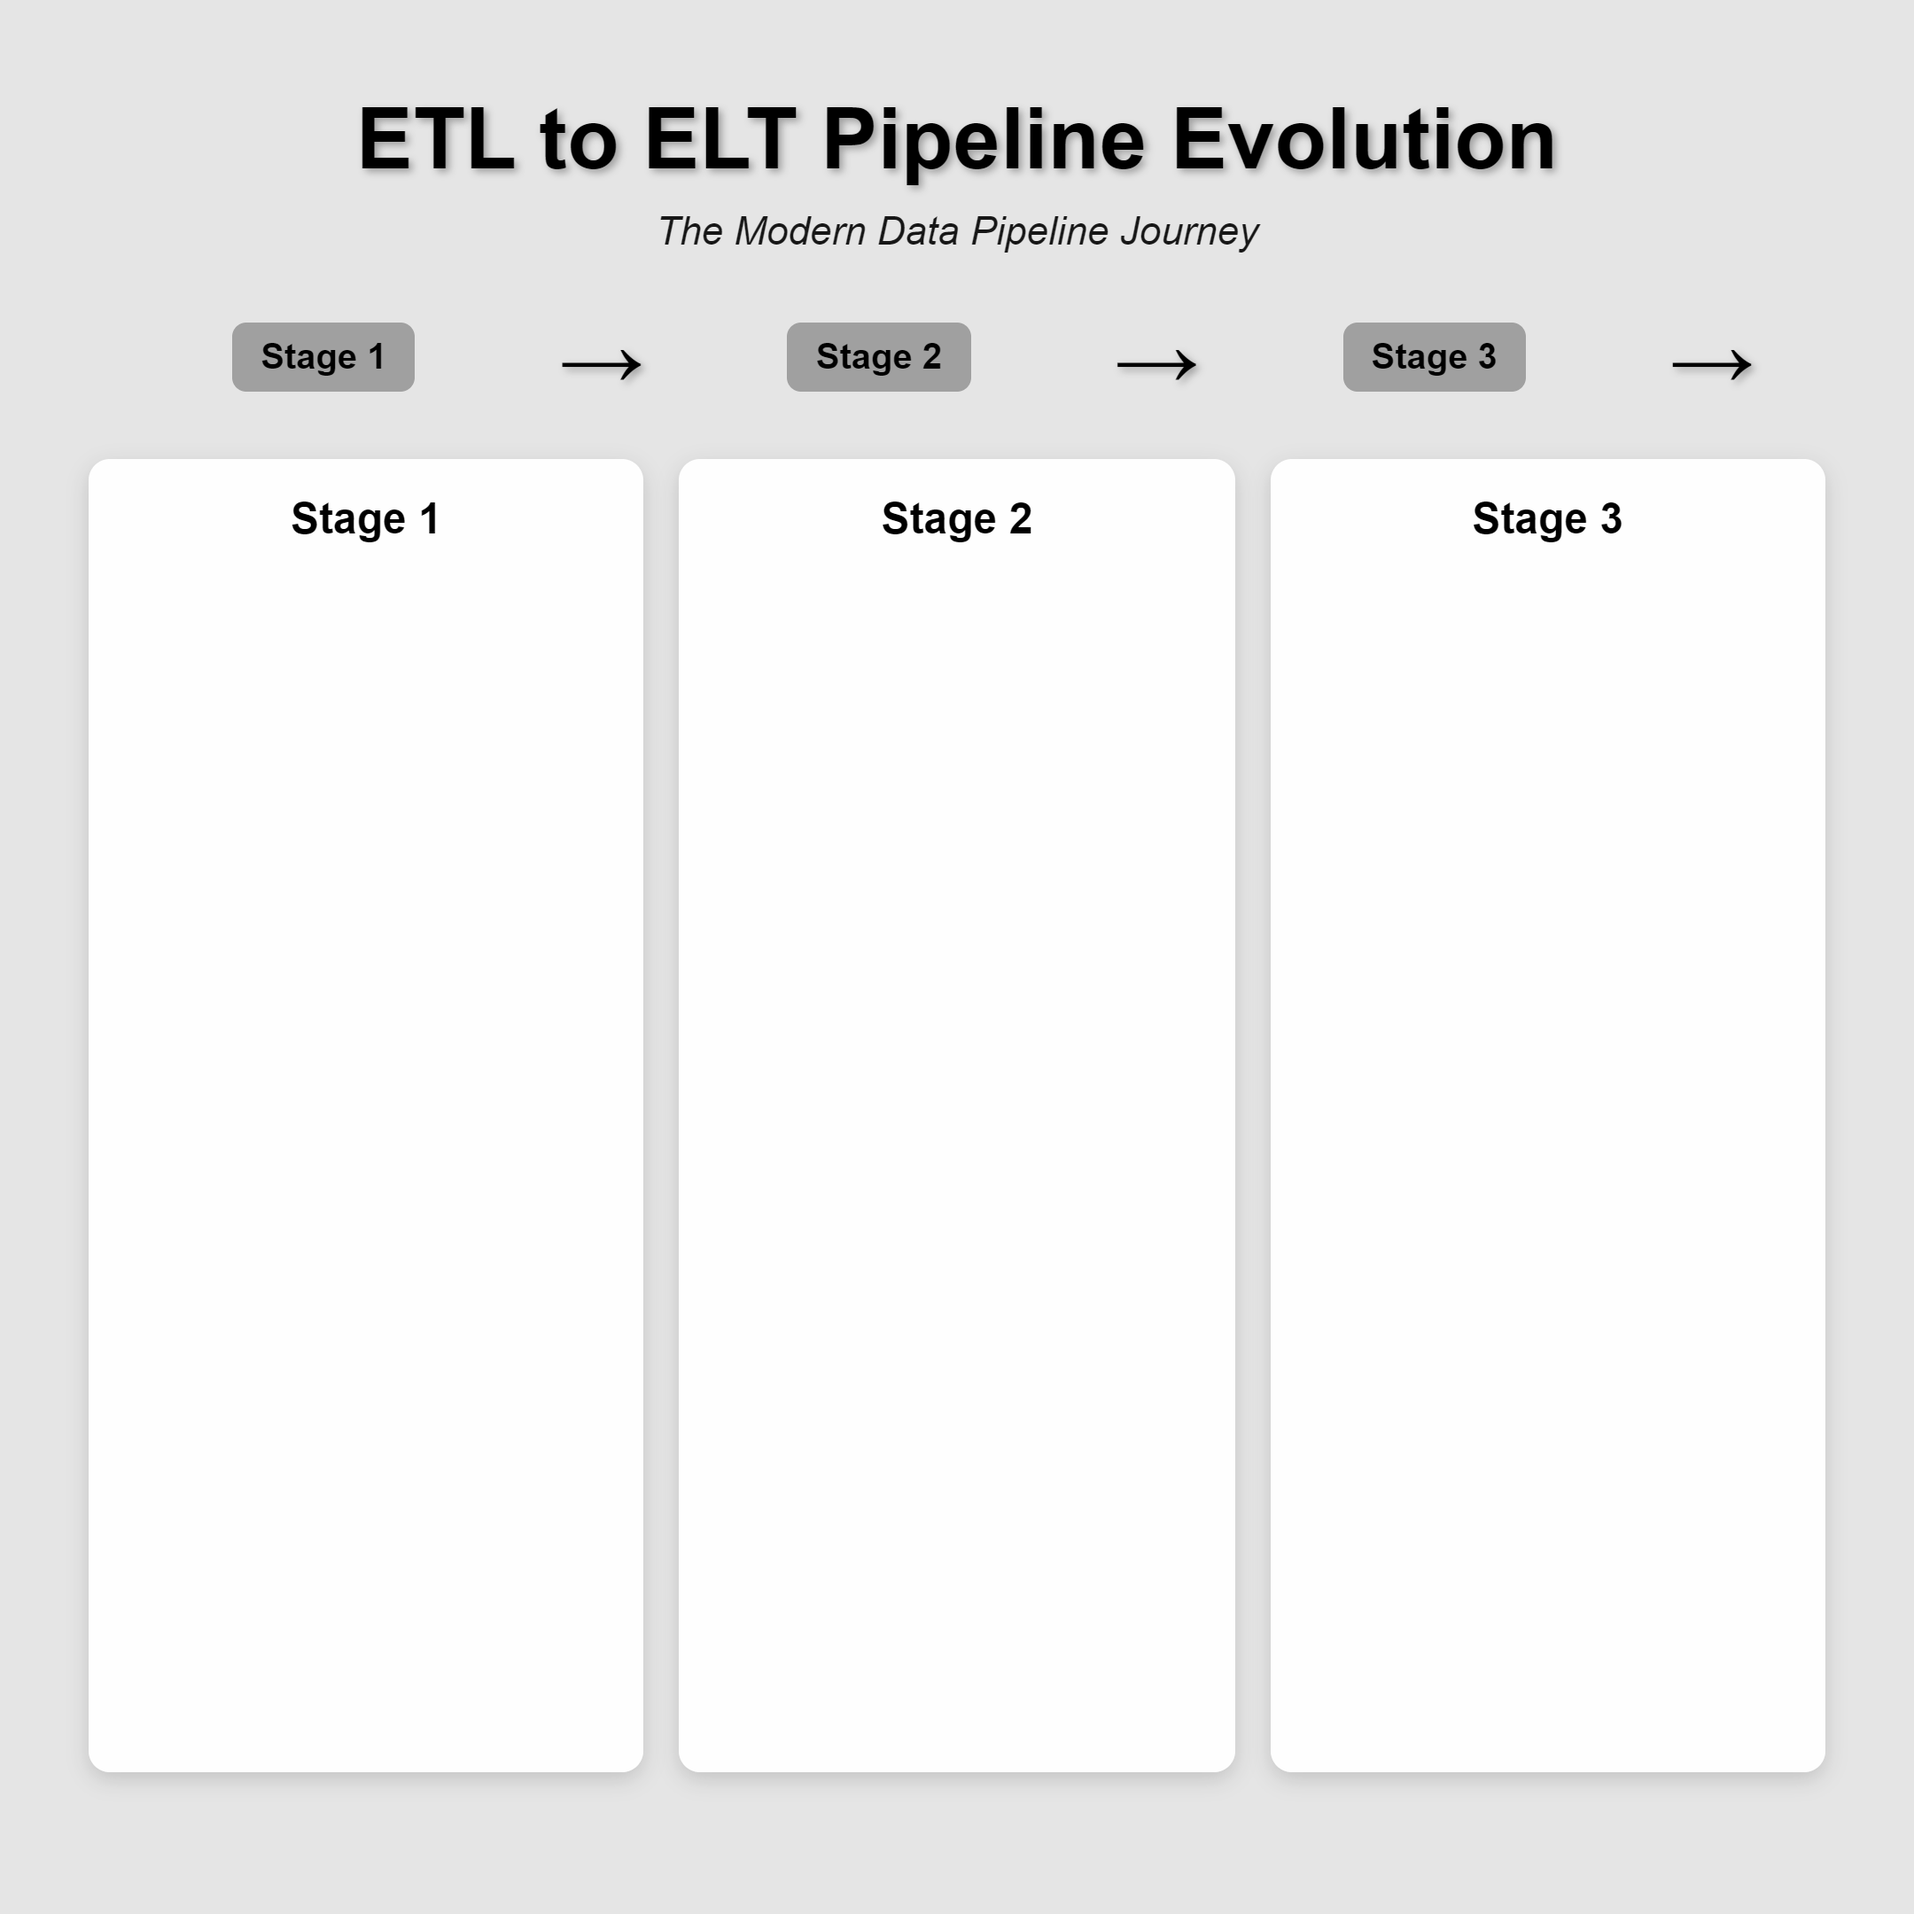
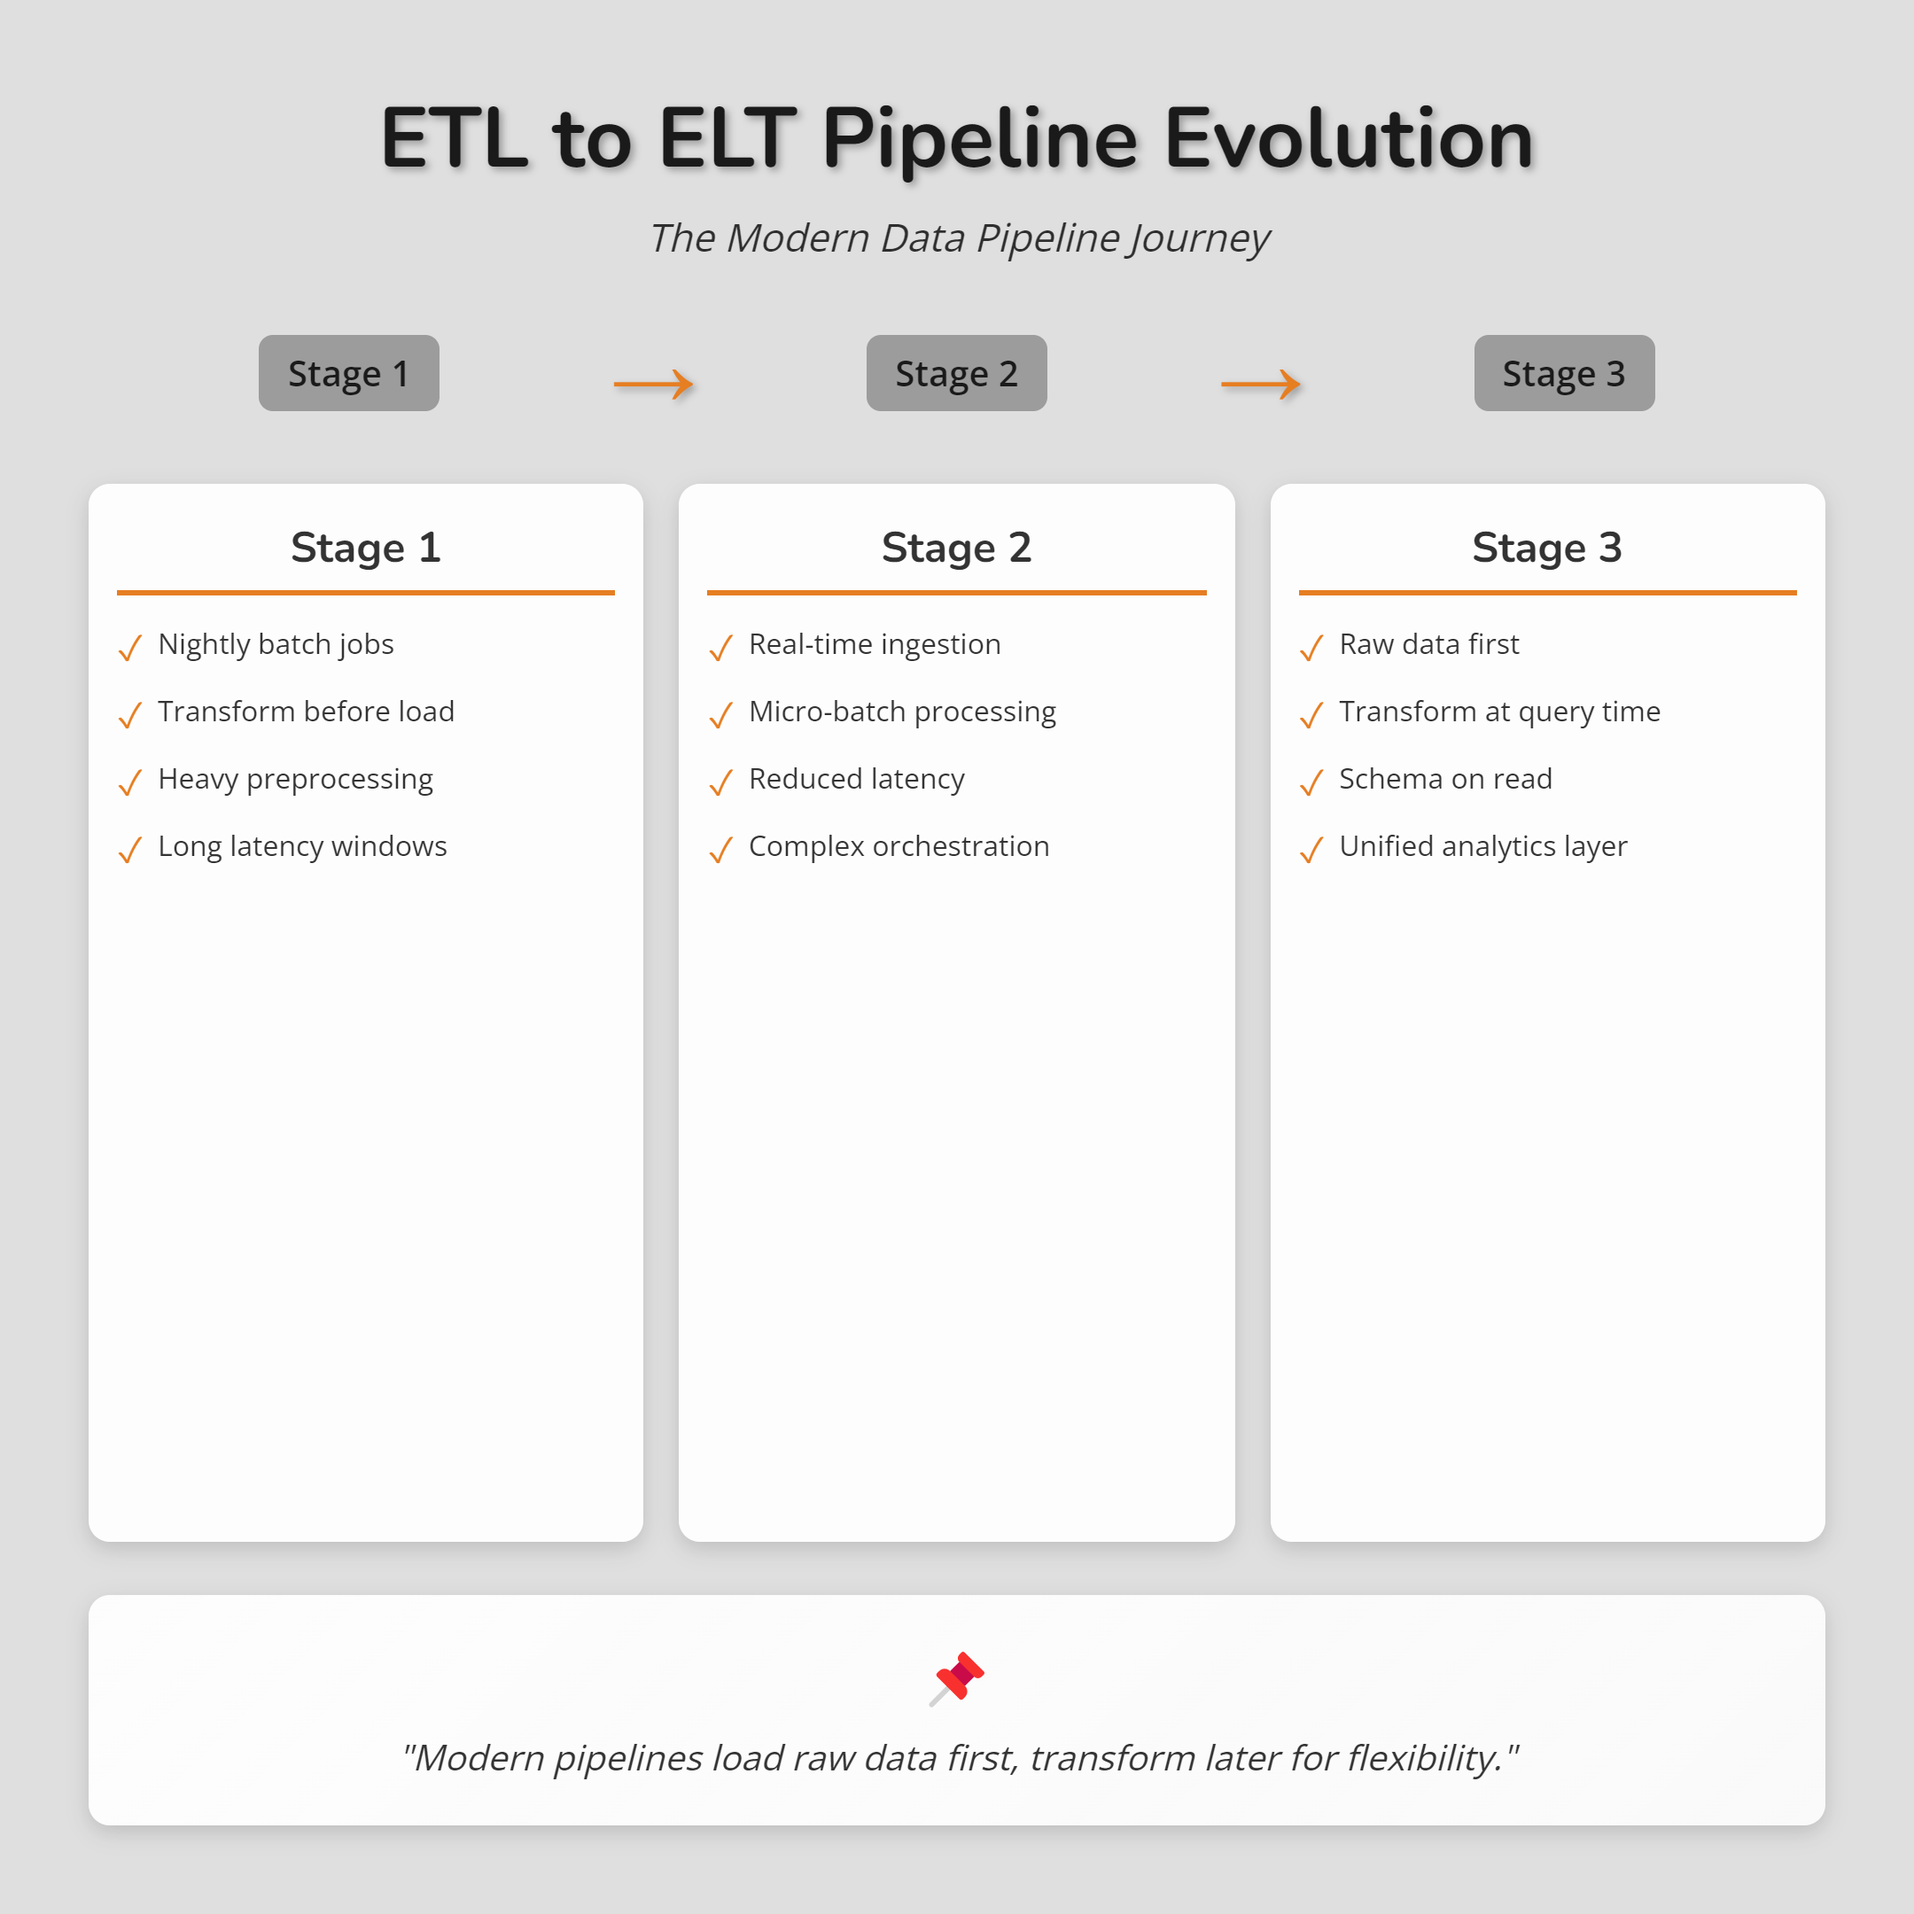
fix(08-01): fix text rendering in evolution and dense-infographic layouts
Rule 1 - Bug Fix: Discovered pre-existing bugs preventing text from displaying correctly

Issue 1: CSS variable name mismatch between templates and themes
- Templates use: --body-color, --title-color, --accent-color, --bg-color, --title-font, --body-font
- Themes define: --text-primary, --text-secondary, --text-accent, --bg-primary, --font-title, --font-body
- Fix: Added legacy variable aliases to all 6 themes for backward compatibility

Issue 2: Evolution layout items not rendering
- Template expects items as objects with {text, icon, iconType} properties
- Data provides simple string arrays
- Fix: Transform string items to objects in compositor.js evolution layout preparation

Issue 3: Dense-infographic body text using wrong color variable
- Section items used --text-primary (title color) instead of --body-color
- White title text on light backgrounds = invisible text
- Fix: Changed dense-infographic.html section-item to use --body-color

Verification: All 6 pillar samples now render with readable text at 1080x1080

diff --git a/automation/hybrid-image-generator/compositor.js b/automation/hybrid-image-generator/compositor.js
@@ -133,11 +133,24 @@ async function prepareTemplateData(config) {
     templateData.showIllustrations = !!(templateData.illustration1Url || templateData.illustration2Url);
   } else if (layout === 'evolution') {
     // Evolution layout: multiple stages with progression
-    templateData.stages = sections.map((section, index) => ({
-      ...section,
-      illustrationUrl: illustrationUrls[`stage${index + 1}`] || illustrationUrls[section.slot]
-    }));
+    templateData.stages = sections.map((section, index) => {
+      // Transform string items to objects with text and icon properties
+      const transformedItems = (section.items || []).map(item => {
+        if (typeof item === 'string') {
+          return { text: item, icon: '✓', iconType: 'check' };
+        }
+        return item;
+      });
+
+      return {
+        ...section,
+        items: transformedItems,
+        illustrationUrl: illustrationUrls[`stage${index + 1}`] || illustrationUrls[section.slot],
+        isLast: index === sections.length - 1
+      };
+    });
     templateData.showArrows = sections.length > 1;
+    templateData.summary = insight;
   } else if (layout === 'single') {
     // Single layout: deep dive on one topic
     templateData.sections = sections;

diff --git a/automation/hybrid-image-generator/themes/whiteboard.js b/automation/hybrid-image-generator/themes/whiteboard.js
@@ -131,7 +131,15 @@ const whiteboardTheme = {
     '--pros-bg': 'rgba(41, 128, 185, 0.05)', // Very subtle blue tint
     '--cons-bg': 'rgba(230, 126, 34, 0.05)', // Very subtle orange tint
     '--pros-border': '#2980b9', // Blue marker
-    '--cons-border': '#e67e22' // Orange marker
+    '--cons-border': '#e67e22', // Orange marker
+
+    // Legacy template variable aliases (for backward compatibility)
+    '--title-color': '#1a1a1a', // Alias for --text-primary
+    '--body-color': '#333333', // Alias for --text-secondary
+    '--accent-color': '#e67e22', // Alias for --text-accent
+    '--bg-color': '#f8f8f8', // Alias for --bg-primary
+    '--title-font': 'Nunito, sans-serif', // Alias for --font-title
+    '--body-font': 'Open Sans, sans-serif' // Alias for --font-body
   },
 
   /**

diff --git a/automation/hybrid-image-generator/themes/chalkboard.js b/automation/hybrid-image-generator/themes/chalkboard.js
@@ -130,7 +130,15 @@ const chalkboardTheme = {
     '--pros-bg': 'rgba(76, 175, 80, 0.1)', // Subtle green tint
     '--cons-bg': 'rgba(244, 67, 54, 0.1)', // Subtle red tint
     '--pros-border': '#4caf50',
-    '--cons-border': '#f44336'
+    '--cons-border': '#f44336',
+
+    // Legacy template variable aliases (for backward compatibility)
+    '--title-color': '#ffffff', // Alias for --text-primary
+    '--body-color': '#e8e8e8', // Alias for --text-secondary
+    '--accent-color': '#f4d03f', // Alias for --text-accent
+    '--bg-color': '#2d4a3e', // Alias for --bg-primary
+    '--title-font': 'Permanent Marker, cursive', // Alias for --font-title
+    '--body-font': 'Patrick Hand, cursive' // Alias for --font-body
   },
 
   /**

diff --git a/automation/hybrid-image-generator/themes/notebook.js b/automation/hybrid-image-generator/themes/notebook.js
@@ -131,7 +131,15 @@ const notebookTheme = {
     '--pros-bg': 'rgba(76, 175, 80, 0.08)', // Very subtle green tint
     '--cons-bg': 'rgba(244, 67, 54, 0.08)', // Very subtle red tint
     '--pros-border': '#4caf50',
-    '--cons-border': '#f44336'
+    '--cons-border': '#f44336',
+
+    // Legacy template variable aliases (for backward compatibility)
+    '--title-color': '#2d2d2d', // Alias for --text-primary
+    '--body-color': '#4a4a4a', // Alias for --text-secondary
+    '--accent-color': '#3a7bd5', // Alias for --text-accent
+    '--bg-color': '#f5f0e8', // Alias for --bg-primary
+    '--title-font': 'Caveat, cursive', // Alias for --font-title
+    '--body-font': 'Handlee, cursive' // Alias for --font-body
   },
 
   /**

diff --git a/automation/hybrid-image-generator/themes/watercolor.js b/automation/hybrid-image-generator/themes/watercolor.js
@@ -130,7 +130,15 @@ const watercolorTheme = {
     '--pros-bg': 'rgba(46,204,113,0.08)', // Very subtle green wash
     '--cons-bg': 'rgba(231,76,60,0.08)', // Very subtle red wash
     '--pros-border': '#2ecc71',
-    '--cons-border': '#e74c3c'
+    '--cons-border': '#e74c3c',
+
+    // Legacy template variable aliases (for backward compatibility)
+    '--title-color': '#34495e', // Alias for --text-primary
+    '--body-color': '#5d6d7e', // Alias for --text-secondary
+    '--accent-color': '#3498db', // Alias for --text-accent
+    '--bg-color': '#faf8f5', // Alias for --bg-primary
+    '--title-font': 'Playfair Display, serif', // Alias for --font-title
+    '--body-font': 'Lora, serif' // Alias for --font-body
   },
 
   /**

diff --git a/automation/hybrid-image-generator/themes/dense-infographic.js b/automation/hybrid-image-generator/themes/dense-infographic.js
@@ -131,7 +131,15 @@ const denseInfographicTheme = {
     '--pros-bg': 'rgba(39, 174, 96, 0.1)', // Green tint
     '--cons-bg': 'rgba(231, 76, 60, 0.1)', // Red tint
     '--pros-border': '#27ae60',
-    '--cons-border': '#e74c3c'
+    '--cons-border': '#e74c3c',
+
+    // Legacy template variable aliases (for backward compatibility)
+    '--title-color': '#2d3436', // Alias for --text-primary
+    '--body-color': '#5d6166', // Alias for --text-secondary
+    '--accent-color': '#e17055', // Alias for --text-accent
+    '--bg-color': '#faf6ef', // Alias for --bg-primary
+    '--title-font': 'Poppins, sans-serif', // Alias for --font-title
+    '--body-font': 'Roboto, sans-serif' // Alias for --font-body
   },
 
   /**

diff --git a/automation/hybrid-image-generator/themes/tech.js b/automation/hybrid-image-generator/themes/tech.js
@@ -139,7 +139,15 @@ const techTheme = {
     // Tech-specific effects
     '--grid-color': 'rgba(0,212,170,0.1)', // Circuit board grid
     '--gradient-start': '#1a1a2e',
-    '--gradient-end': '#2e104e'
+    '--gradient-end': '#2e104e',
+
+    // Legacy template variable aliases (for backward compatibility)
+    '--title-color': '#ffffff', // Alias for --text-primary
+    '--body-color': '#b8b8b8', // Alias for --text-secondary
+    '--accent-color': '#00d4aa', // Alias for --text-accent
+    '--bg-color': '#1a1a2e', // Alias for --bg-primary
+    '--title-font': 'Inter, sans-serif', // Alias for --font-title
+    '--body-font': 'Inter, sans-serif' // Alias for --font-body
   },
 
   /**

diff --git a/automation/hybrid-image-generator/layouts/dense-infographic.html b/automation/hybrid-image-generator/layouts/dense-infographic.html
@@ -146,7 +146,7 @@
         margin-bottom: 4px;
         font-size: 13px;
         line-height: 1.35;
-        color: var(--text-primary, '#1a1a2e');
+        color: var(--body-color, '#333');
       }
 
       .section-item-bullet {
